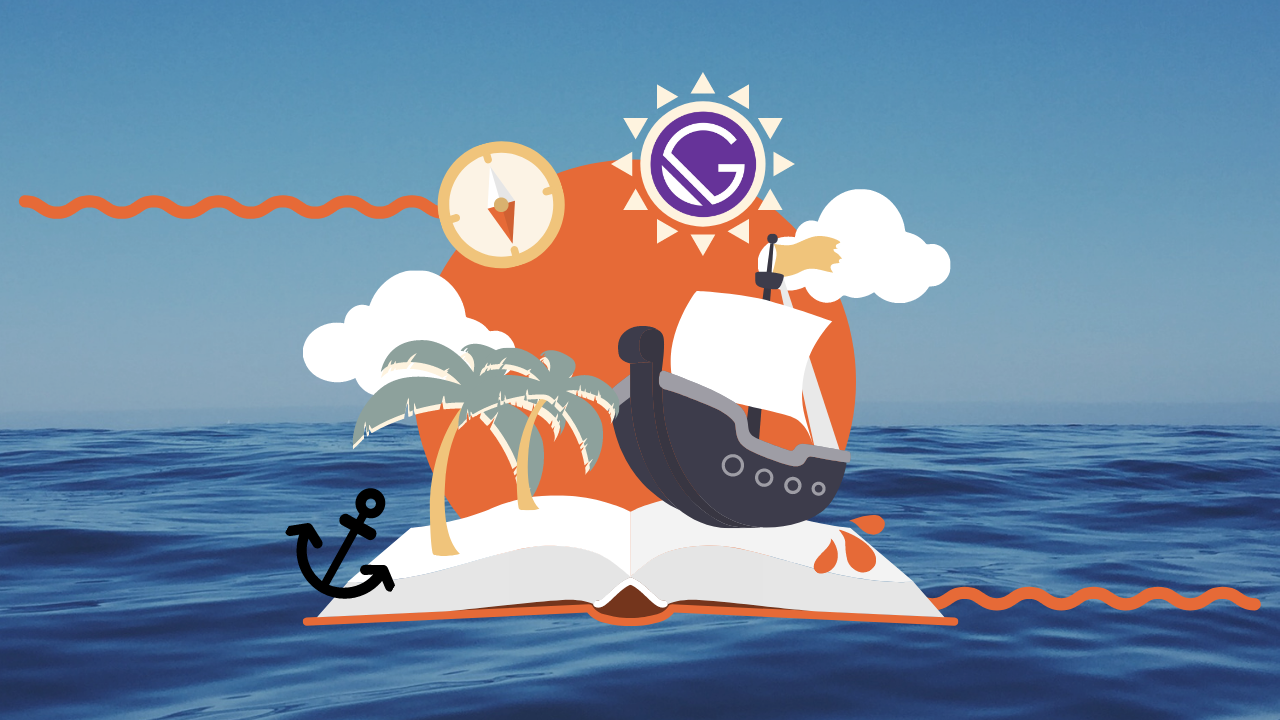
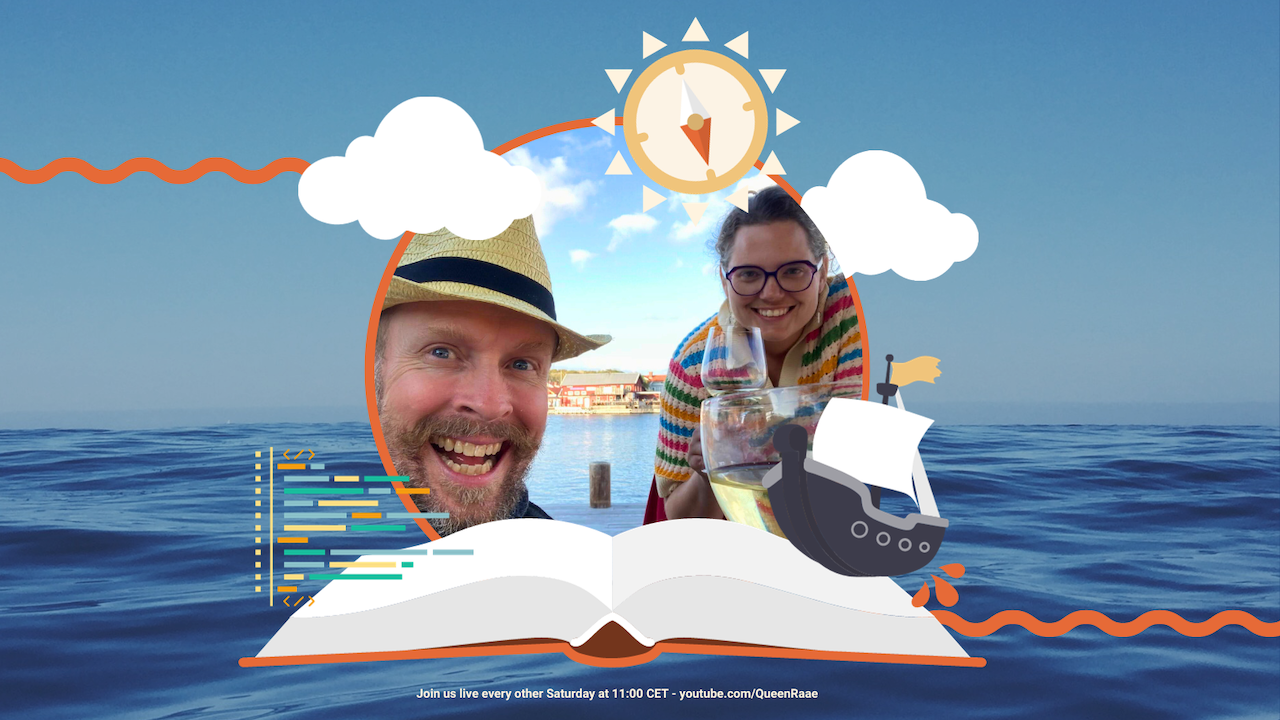
sop: update pirate show sop

diff --git a/standard-operating-procedures/pirate-show.md b/standard-operating-procedures/pirate-show.md
@@ -11,7 +11,7 @@ title: Pirate Show
 
 ```
 🔔 🏴☠ Stream incoming
-<Thursday/Today> at 19:00 CET 🏴☠ 🔔
+Saturday at 11:00 CET 🏴☠ 🔔
 
 <Text about stream>
 
@@ -26,8 +26,8 @@ You might even learn a thing or two...
 
 🥛 🍷 🥤 🍺
 
-🗓 Tune in Thursdays
-🕰 at 19:00 (Oslo / Berlin / CEST)
+🗓 Tune in (every other) Saturday
+🕰 at 11:00 (Oslo / Berlin / CET)
 📺 on Queen Raae's YouTube
 
 <YouTube Link>
